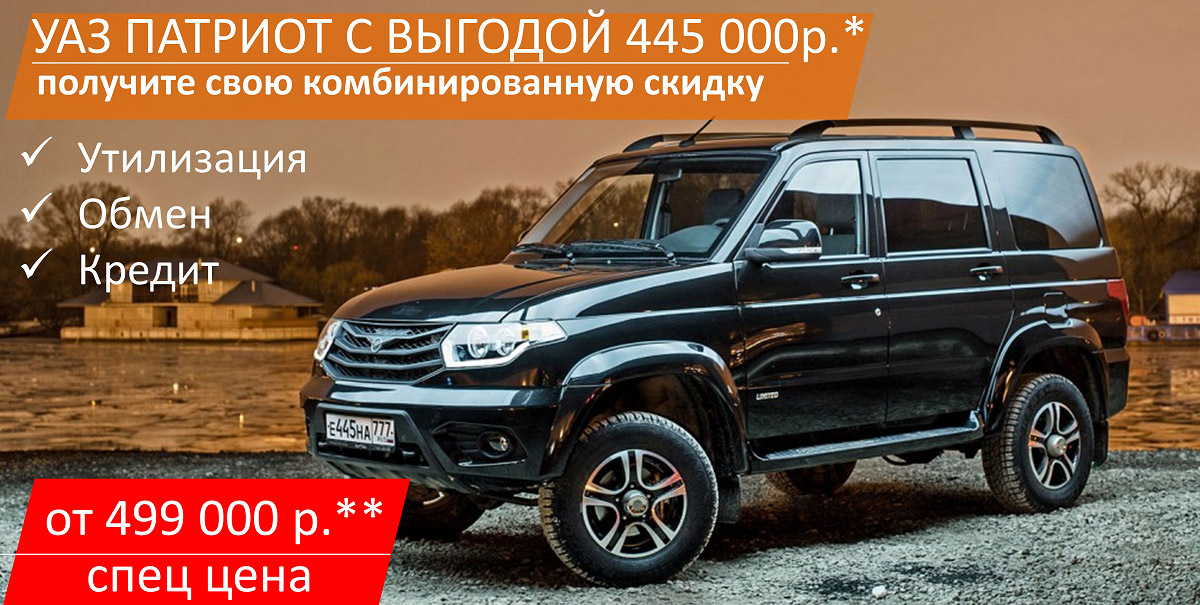
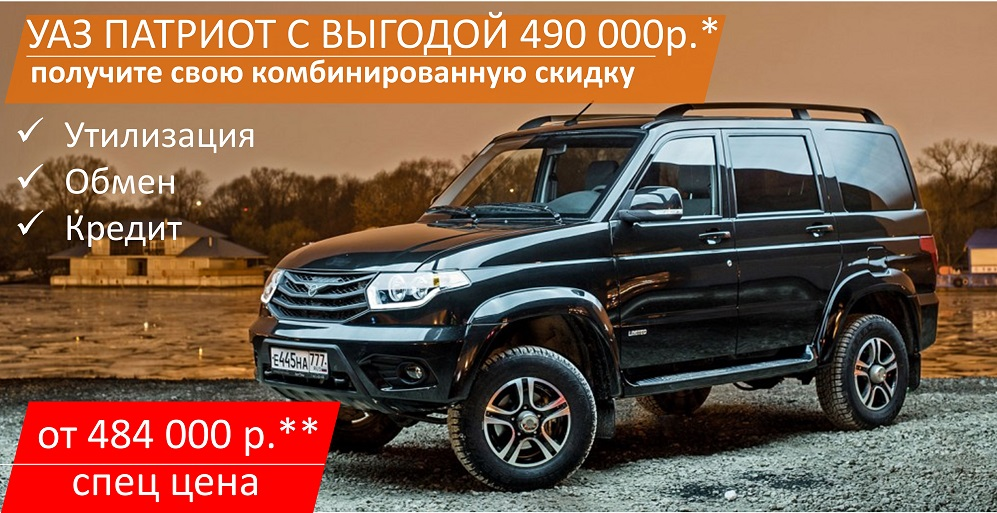
patriot price

diff --git a/patriot.html b/patriot.html
@@ -74,8 +74,8 @@
       </p>
       <ol>
         <li>до 300 000 р. ДАЕМ МАКСИМАЛЬНЫЕ СКИДКИ</li>
-        <li>до 330 000 р. ДАРИМ ОБОРУДОВАНИЕ</li>
-        <li>до 445 000 р. ДАЕМ СКИДКУ И ДАРИМ ОБОРУДОВАНИЕ</li>
+        <li>до 360 000 р. ДАРИМ ОБОРУДОВАНИЕ</li>
+        <li>до 490 000 р. ДАЕМ СКИДКУ И ДАРИМ ОБОРУДОВАНИЕ</li>
       </ol>
       <p><strong>Это реально!</strong></p>
       <p>Один шаг до максимальных скидок – заполните заявку или позвоните в дилерский центр «Торг Маш» – ВСЕ остальное мы сделаем сами!</p>
@@ -172,10 +172,10 @@
 
       </div>
       <div class="explanation-block">
-        <p><strong>*МАКСИМАЛЬНАЯ ВЫГОДА до 445 000 рублей!</strong></p>
-        <p>445 000 р. – Максимальная выгода, которая достигается за счет предоставления всех скидок на автомобили УАЗ ПАТРИОТ и дополнительного оборудования в подарок, количество автомобилей участвующих в акции ограничено, подробности в отделе продаж УАЗ</p>
-        <p><strong>**СПЕЦ ЦЕНА до 499 000 рублей!</strong></p>
-        <p>499 000 р. – цена на ограниченное количество автомобилей УАЗ Патриот в комплектации Classic.</p>
+        <p><strong>*МАКСИМАЛЬНАЯ ВЫГОДА до 490 000 рублей!</strong></p>
+        <p>490 000 р. – Максимальная выгода, которая достигается за счет предоставления всех скидок на автомобили УАЗ ПАТРИОТ и дополнительного оборудования в подарок, количество автомобилей участвующих в акции ограничено, подробности в отделе продаж УАЗ</p>
+        <p><strong>**СПЕЦ ЦЕНА от 484 000 рублей!</strong></p>
+        <p>484 000 р. – цена на ограниченное количество автомобилей УАЗ Патриот в комплектации Classic.</p>
         <p>Обращаем Ваше внимание на то, что вся представленная на сайте информация, касающаяся комплектаций, технических характеристик, цветовых сочетаний, а также стоимости автомобилей и размера выгод носит информационный характер и ни при каких условиях не является публичной офертой, определяемой положениями Статьи 437 (2) Гражданского кодекса Российской Федерации. Для получения подробной информации, пожалуйста, позвоните по телефонам <a href="tel:84952307755">8(495) 230-77-55</a> или <a href="tel:88007756959">8(800) 775-69-59</a></p>
       </div>
     </div>
